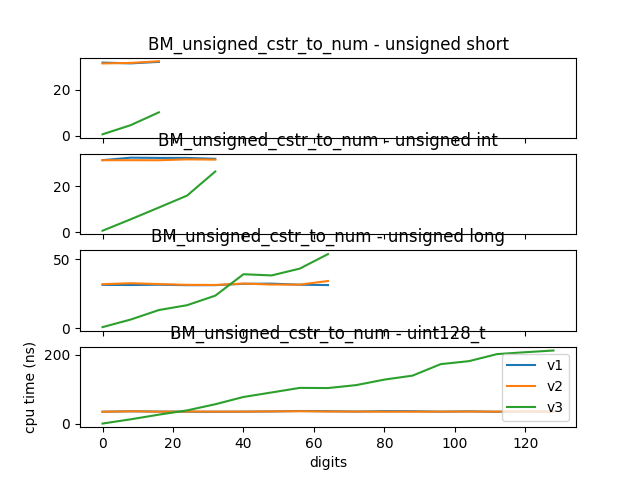
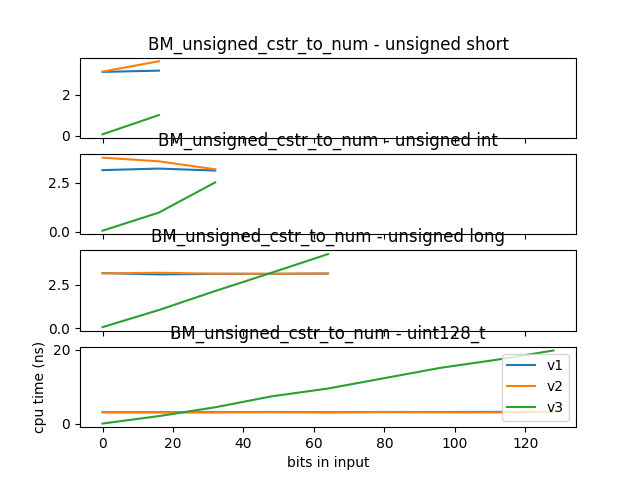
added preferred implementation. rerun benchmarks.

diff --git a/include/llutils_unsigned_cstr_to_num.hpp b/include/llutils_unsigned_cstr_to_num.hpp
@@ -5,7 +5,7 @@
 #include <type_traits>
 #include <utility>
 
-#define unsigned_cstr_to_num unsigned_cstr_to_num_v1
+//#define unsigned_cstr_to_num unsigned_cstr_to_num_v1
 
 // baselines
 
@@ -17,19 +17,17 @@ static const char * describe_unsigned_cstr_to_num[] = { "",
 						"strtol", 	// v2 baseline stdlib atoi
 						"sequential" 	// v3 simple loop
 					};
-template <typename T, typename... Ts>
+template <typename T>
 class LLUtils
 {
 public:
-/*	static T unsigned_cstr_to_num_v1( const char *buffer, size_t len )
+	// forward to the preferred implementation
+	template <typename... Args>
+	static T unsigned_cstr_to_num(Args&& ... args)
 	{
-		return atoi(buffer);
-	} 
- 	static T unsigned_cstr_to_num_v2( const char *buffer, size_t len )
-	{
-		return strtol(buffer, 0, 10);
-	} 
-*/
+  		return unsigned_cstr_to_num_v3(std::forward<Args>(args)...);
+	}
+
 	static T unsigned_cstr_to_num_v3( const char *buffer, size_t len )
 	{
 		static_assert(std::is_unsigned<T>::value,"");

diff --git a/benchmark/benchmark_llutils.cpp b/benchmark/benchmark_llutils.cpp
@@ -7,8 +7,8 @@
 #include <stdlib.h>
 #include <cstdint>
 
-#define NUM_SAMPLES 1000
-#define STEP_SIZE   8
+#define NUM_SAMPLES 100
+#define STEP_SIZE   16
 
 typedef unsigned __int128 uint128_t;
 
@@ -22,6 +22,15 @@ static void fill_samples(int num_digits) {
 		bench_atoi_samples[i][num_digits]=='\0';
 	}
 }
+
+template <typename T>
+static void BM_unsigned_cstr_to_num(benchmark::State& state) {
+ 	fill_samples(state.range(0));
+	for(int i = 0 ; i < NUM_SAMPLES; i++ )
+	   	for (auto _ : state)
+			volatile T y = LLUtils<T>::unsigned_cstr_to_num(bench_atoi_samples[i],state.range(0));
+}
+BENCHMARK_TEMPLATE(BM_unsigned_cstr_to_num,unsigned int)->DenseRange(0,sizeof(unsigned int)*8,STEP_SIZE);
 
 template <typename T>
 static void BM_unsigned_cstr_to_num_v1(benchmark::State& state) {

diff --git a/tools/plot_results.py b/tools/plot_results.py
@@ -83,7 +83,7 @@ def plot_row(node,row_count,col_count,row_title,axs,grid_title):
         legend_handles.append(key)
     plt.legend(legend_handles)
     plt.ylabel("cpu time (ns)")
-    plt.xlabel("digits")
+    plt.xlabel("bits in input")
 
 def plot_graph(node,row_count,col_count,row_title,graph_title, axs,grid_title):
     for ik,key in enumerate(node.keys()):

diff --git a/wiki/unsigned_cstr_to_num.md b/wiki/unsigned_cstr_to_num.md
@@ -7,9 +7,9 @@ Convert an ascii c-string containing an unsigned whole number to a numeric value
 
 | Versions         | Description           | Notes           |
 | ---------------- |:---------------------:| -----------------------------------------------------------------------------------:|
-| v1 (atoi)        | baseline              | constant time performance at ~34000 ns, regardless of number of digits in input     |
-| v2 (strtol)      | another baseline      | constant time performance at ~34000 ns, regardless of number of digits in input     |
-| v3 (simple loop) | initial version       | linear performance, starting at ~6000 ns at <8 digits, up to ~37000 ns at 48 digits |
+| v1 (atoi)        | baseline              | constant time performance at ~34000 ns, regardless of number of bits in input     |
+| v2 (strtol)      | another baseline      | constant time performance at ~34000 ns, regardless of number of bits in input     |
+| v3 (simple loop) | initial version       | linear performance, starting at ~6000 ns at <8 bits, up to ~37000 ns at 48 bits |
 
 ## Benchmark Results
 
